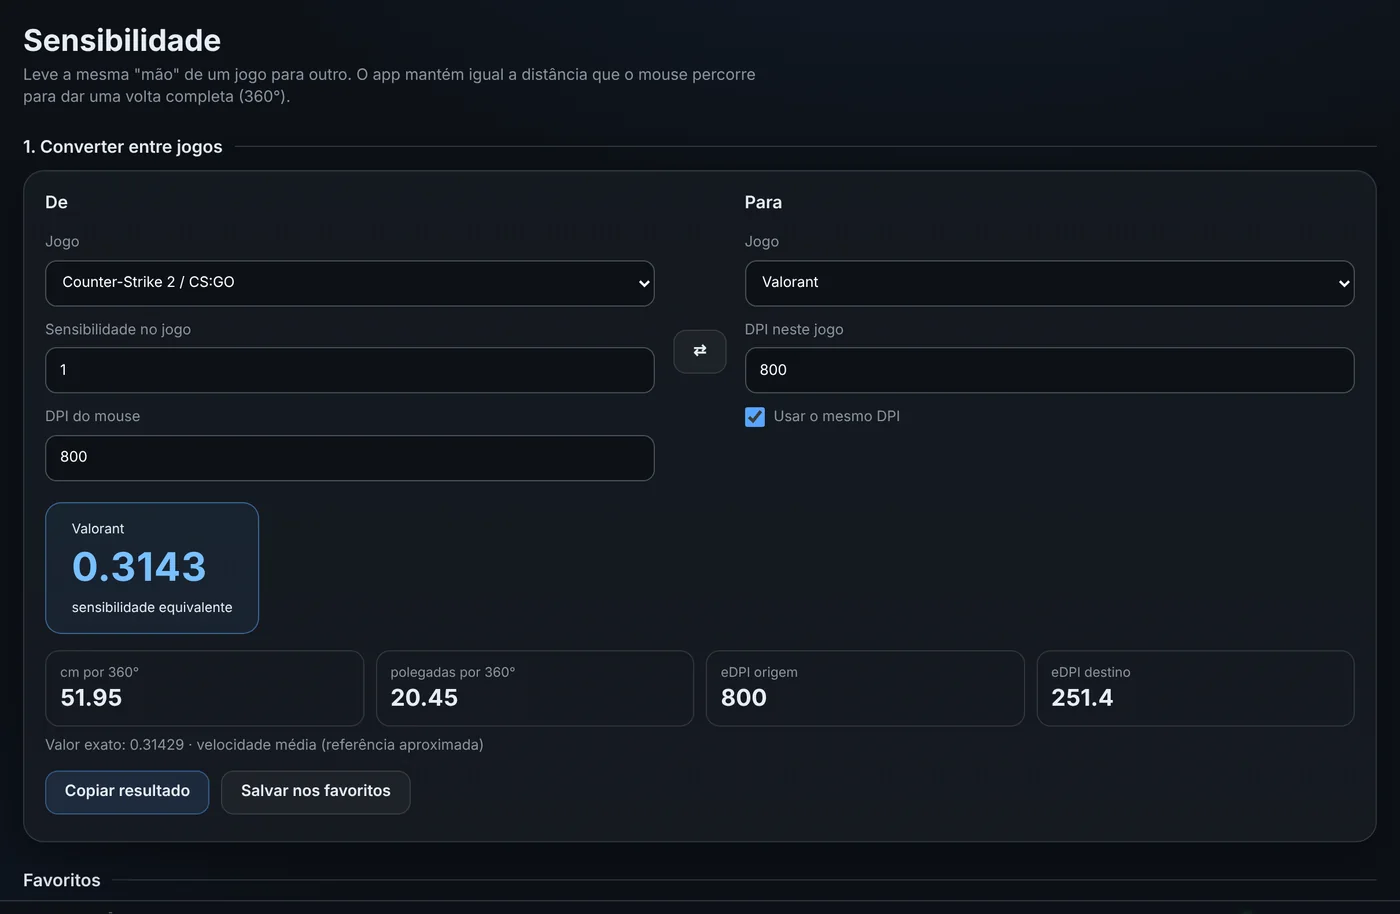
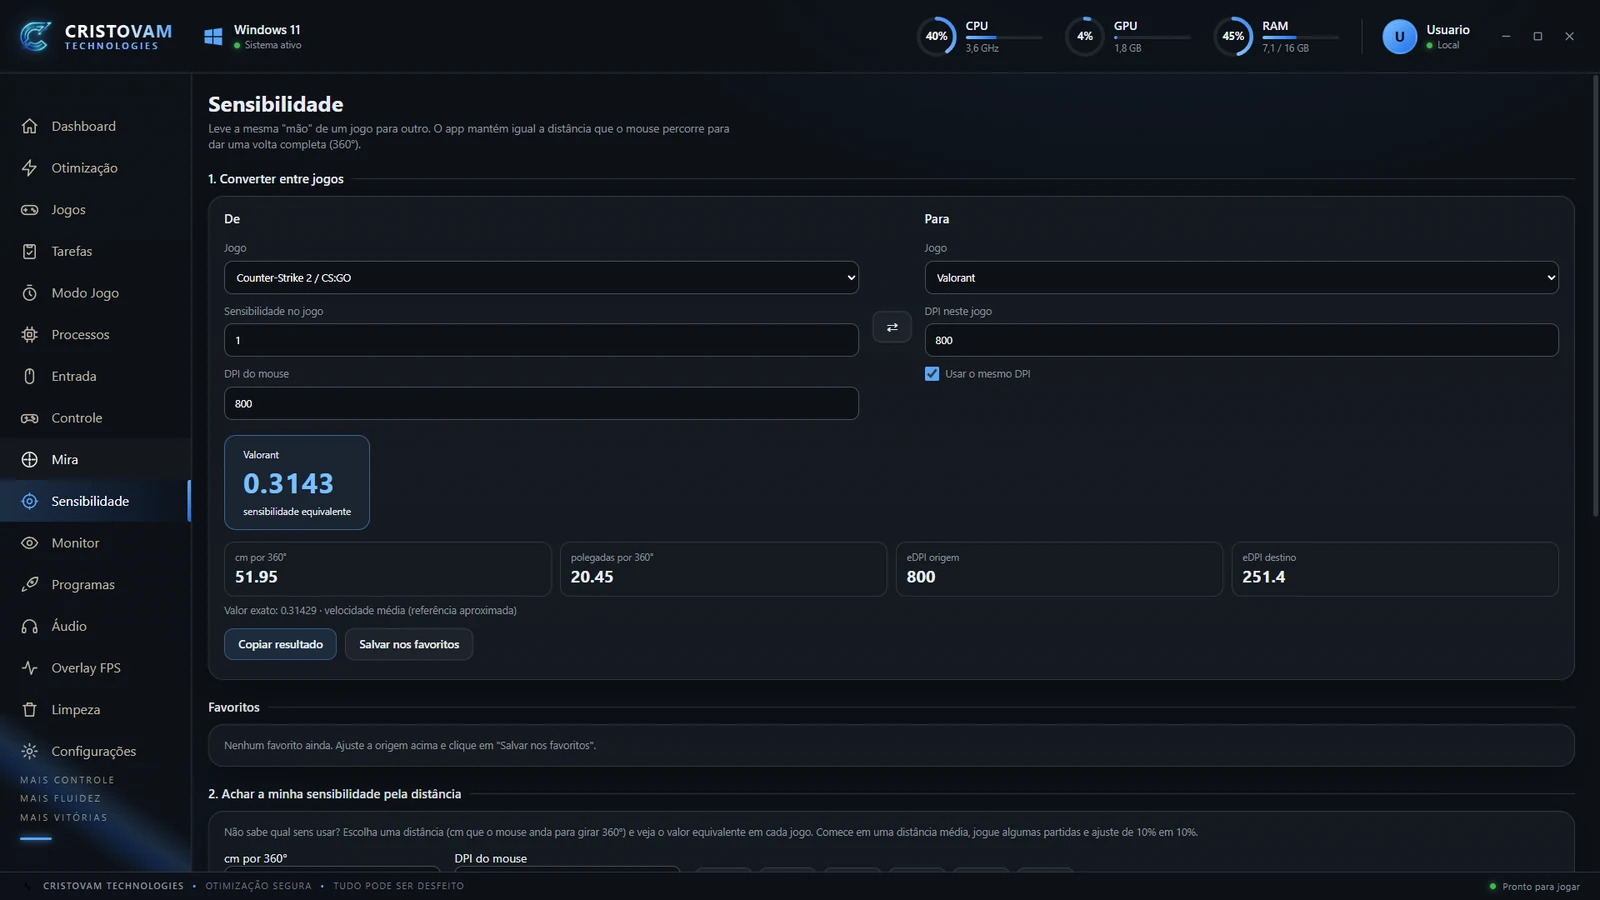
Site: troca o print da sensibilidade por uma captura real do app
Claude-Session: https://claude.ai/code/session_01A2WHJBw53TS6qfaTC128UT

diff --git a/docs/index.html b/docs/index.html
@@ -242,7 +242,7 @@ footer a:hover{color:var(--text)}
 
     <div class="feature flip">
       <div>
-        <div class="shot"><img src="img/sensibilidade.webp" width="1400" height="914" loading="lazy" alt="Conversor de sensibilidade entre Counter-Strike 2 e Valorant"></div>
+        <div class="shot"><img src="img/sensibilidade.webp" width="1600" height="900" loading="lazy" alt="Conversor de sensibilidade entre Counter-Strike 2 e Valorant"></div>
       </div>
       <div class="text">
         <h3>Leve a mesma mira de um jogo para outro</h3>
